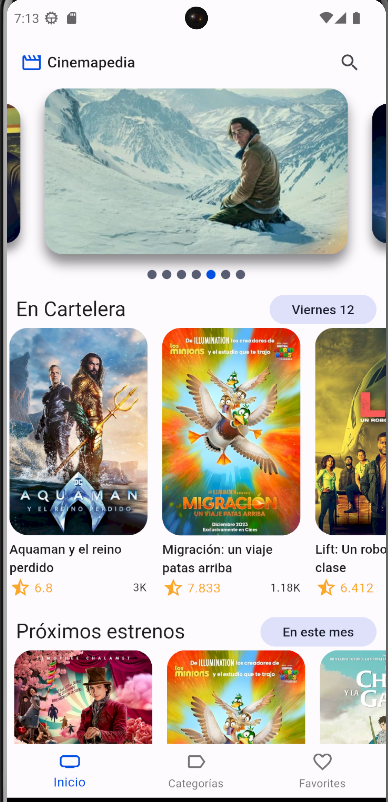
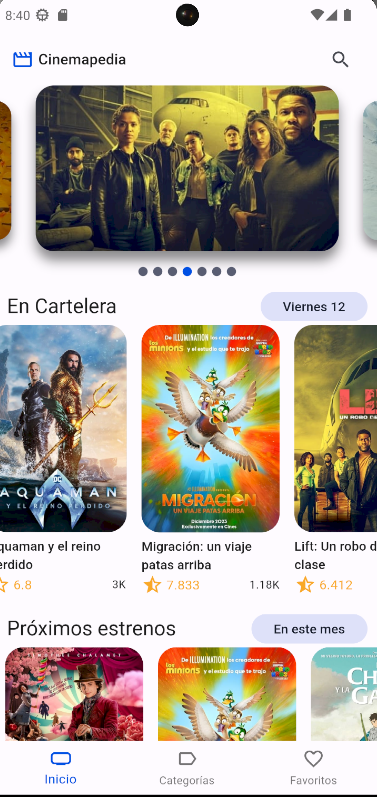
ajuste en librerias y capturas de pantalla

diff --git a/lib/presentation/widgets/shared/custom_bottom_navigation.dart b/lib/presentation/widgets/shared/custom_bottom_navigation.dart
@@ -31,7 +31,7 @@ class CustomBottomNavigation extends StatelessWidget {
           ),
           BottomNavigationBarItem(
             icon: Icon(Icons.favorite_outline),
-            label: 'Favorites',
+            label: 'Favoritos',
           ),
         ]);
   }
